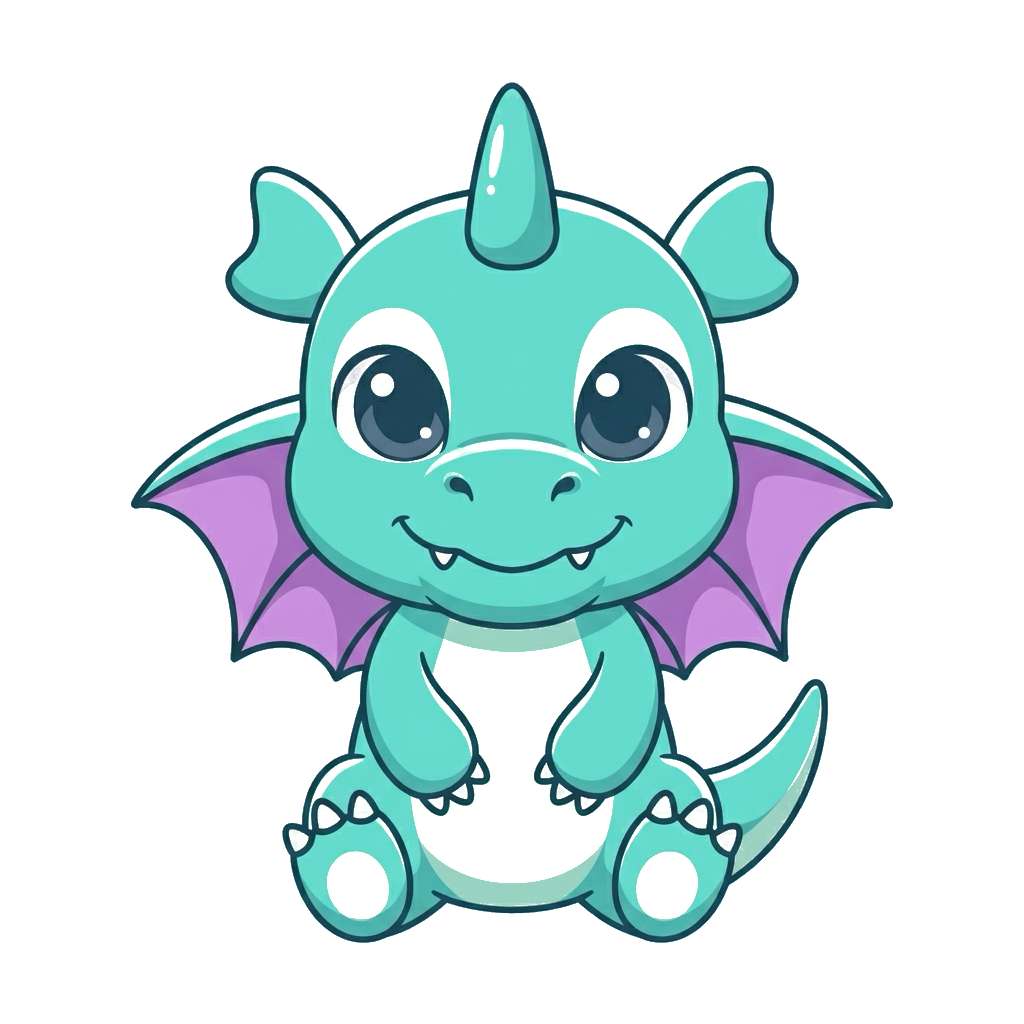
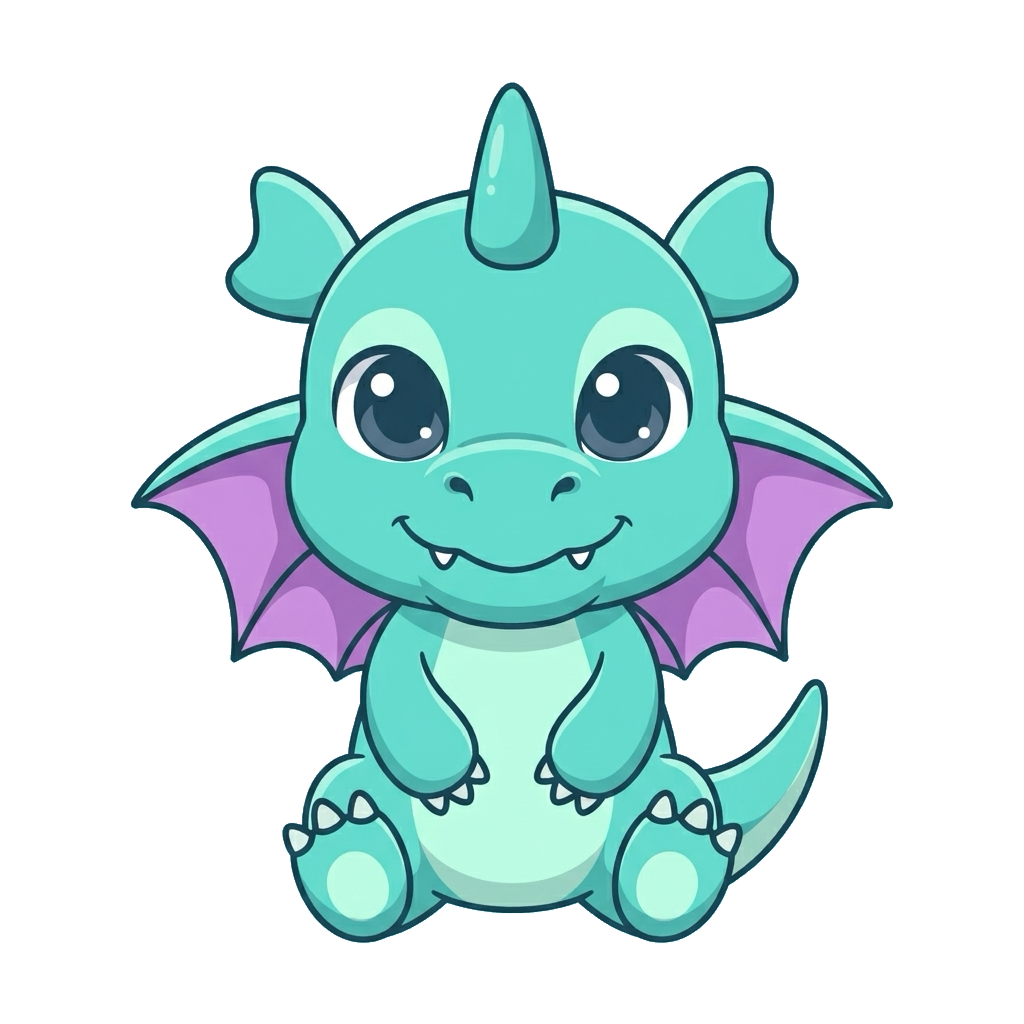
fix(companion): restore solid belly, feet, and brows with off-white background

diff --git a/public/dragon.html b/public/dragon.html
@@ -6,8 +6,8 @@
   <title>Dragón de Cracovia Oficial - CrohnCare</title>
   <style>
     :root {
-      --bg: #BFEAF3;
-      --card-bg: rgba(255, 255, 255, 0.9);
+      --bg: #F5F7F8;
+      --card-bg: rgba(255, 255, 255, 0.95);
       --text: #153F4B;
       --accent: #FF7A59;
       --primary: #127782;
@@ -34,7 +34,7 @@
 
     header {
       text-align: center;
-      margin-bottom: 20px;
+      margin-bottom: 16px;
     }
 
     h1 {
@@ -47,7 +47,7 @@
 
     p.subtitle {
       font-size: 15px;
-      color: #386875;
+      color: #486E78;
       font-weight: 500;
     }
 
@@ -55,42 +55,42 @@
       display: inline-flex;
       align-items: center;
       gap: 6px;
-      background: #D4F4EA;
+      background: #EAF7F3;
       color: #0B6B52;
       border: 1.5px solid #20A779;
       padding: 6px 14px;
       border-radius: 9999px;
       font-size: 13px;
       font-weight: 700;
-      margin-bottom: 12px;
+      margin-bottom: 10px;
     }
 
     /* Mascot Stage */
     .stage-container {
       position: relative;
       width: 100%;
-      max-width: 480px;
+      max-width: 440px;
       aspect-ratio: 1;
       display: flex;
       align-items: center;
       justify-content: center;
-      margin-bottom: 24px;
+      margin-bottom: 20px;
     }
 
     .dragon-glow {
       position: absolute;
-      width: 340px;
-      height: 340px;
+      width: 320px;
+      height: 320px;
       border-radius: 50%;
-      background: radial-gradient(circle, rgba(255,255,255,0.7) 0%, rgba(255,255,255,0) 70%);
+      background: radial-gradient(circle, rgba(18, 119, 130, 0.08) 0%, rgba(255,255,255,0) 70%);
       pointer-events: none;
     }
 
     .dragon-img {
-      width: 85%;
-      height: 85%;
+      width: 88%;
+      height: 88%;
       object-fit: contain;
-      filter: drop-shadow(0 12px 24px rgba(18, 119, 130, 0.25));
+      filter: drop-shadow(0 14px 28px rgba(18, 119, 130, 0.16));
       transition: transform 0.2s cubic-bezier(0.34, 1.56, 0.64, 1);
       user-select: none;
       -webkit-user-drag: none;
@@ -159,7 +159,7 @@
       background: var(--card-bg);
       border-radius: 20px;
       padding: 20px;
-      box-shadow: 0 8px 30px rgba(0,0,0,0.08);
+      box-shadow: 0 8px 30px rgba(0,0,0,0.06);
       backdrop-filter: blur(8px);
       display: flex;
       flex-direction: column;
@@ -185,7 +185,7 @@
       flex: 1;
       min-width: 110px;
       padding: 10px 14px;
-      border: 1.5px solid #BDDDE2;
+      border: 1.5px solid #D0E4E8;
       background: #FFFFFF;
       color: #153F4B;
       border-radius: 12px;
@@ -200,7 +200,7 @@
     }
 
     button:hover {
-      background: #E8F7FA;
+      background: #F0F8FA;
       border-color: #127782;
       transform: translateY(-1px);
     }
@@ -216,7 +216,8 @@
       color: #FFFFFF;
       border: none;
       font-size: 15px;
-      padding: 12px 18px;
+      padding: 13px 18px;
+      font-weight: 700;
     }
 
     .primary-btn:hover {
@@ -235,8 +236,8 @@
       display: flex;
       flex-direction: column;
       padding: 12px;
-      background: #F4FAF8;
-      border: 1.5px solid #CDECE3;
+      background: #F8FBFA;
+      border: 1.5px solid #D7EDE6;
       border-radius: 14px;
       text-decoration: none;
       color: #153F4B;
@@ -244,7 +245,7 @@
     }
 
     .app-link:hover {
-      background: #E4F7F2;
+      background: #E8F7F2;
       border-color: #20A779;
       transform: translateY(-2px);
     }
@@ -289,9 +290,9 @@
 <body>
 
   <header>
-    <div class="badge-approved">✨ Dragón Oficial Aprobado</div>
-    <h1>El Dragón de Cracovia en la Web</h1>
-    <p class="subtitle">Modelo final verificado con anatomía tradicional de Wawel</p>
+    <div class="badge-approved">🛡 Barriga, Patas y Cejas 100% Sólidas</div>
+    <h1>El Dragón con Fondo Blanco Suave</h1>
+    <p class="subtitle">Fondo sutil (#F5F7F8) sin huecos transparentes en el personaje</p>
   </header>
 
   <!-- Mascot Stage -->
@@ -299,8 +300,8 @@
     <div class="dragon-glow"></div>
     <img
       id="dragon-image"
-      src="/dragon.png"
-      alt="Dragón de Cracovia Oficial"
+      src="/dragon_offwhite.png"
+      alt="Dragón de Cracovia Oficial con Fondo Blanco Suave"
       class="dragon-img anim-breathe"
       title="¡Tócame para saltar!"
     />
@@ -309,21 +310,21 @@
   <!-- Interactive Controls Panel -->
   <div class="panel">
     <div>
+      <div class="section-title">Fondo de Visualización</div>
+      <div class="button-group">
+        <button id="btn-offwhite" class="active" onclick="switchImage('offwhite', '#F5F7F8', this)">⚪ Blanco Suave</button>
+        <button id="btn-trans" onclick="switchImage('trans', '#F5F7F8', this)">✨ Transparente Sólido</button>
+        <button id="btn-cyan" onclick="switchImage('cyan', '#BFEAF3', this)">🌊 Celeste #BFEAF3</button>
+        <button id="btn-dark" onclick="switchImage('trans', '#15242E', this)">🌙 Modo Noche</button>
+      </div>
+    </div>
+
+    <div>
       <div class="section-title">Animaciones en Vivo</div>
       <div class="button-group">
         <button id="btn-breathe" class="active" onclick="setAnim('breathe')">🌬 Respiración</button>
         <button id="btn-bounce" onclick="setAnim('bounce')">🎉 Celebración</button>
         <button id="btn-wag" onclick="setAnim('wag')">🐾 Bamboleo</button>
-      </div>
-    </div>
-
-    <div>
-      <div class="section-title">Fondo de Visualización</div>
-      <div class="button-group">
-        <button class="active" onclick="setBg('#BFEAF3', this)">Celeste #BFEAF3</button>
-        <button onclick="setBg('#FFFFFF', this)">Blanco Puro</button>
-        <button onclick="setBg('#E8F5F1', this)">Verde Menta</button>
-        <button onclick="setBg('#15242E', this)">Modo Noche</button>
       </div>
     </div>
 
@@ -363,7 +364,30 @@
     const img = document.getElementById('dragon-image');
     const toast = document.getElementById('toast');
 
+    function switchImage(mode, bgColor, btn) {
+      if (mode === 'offwhite') {
+        img.src = '/dragon_offwhite.png';
+      } else if (mode === 'cyan') {
+        img.src = '/dragon_krakow_final.jpg';
+      } else {
+        img.src = '/dragon.png'; // 100% solid character on transparent background
+      }
+
+      document.body.style.backgroundColor = bgColor;
+      btn.parentElement.querySelectorAll('button').forEach(b => b.classList.remove('active'));
+      btn.classList.add('active');
+
+      if (bgColor === '#15242E') {
+        document.querySelector('h1').style.color = '#FFFFFF';
+        document.querySelector('p.subtitle').style.color = '#A3E3EC';
+      } else {
+        document.querySelector('h1').style.color = '#0F3B46';
+        document.querySelector('p.subtitle').style.color = '#486E78';
+      }
+    }
+
     function setAnim(name) {
+      const currentSrc = img.src;
       img.className = 'dragon-img';
       document.querySelectorAll('#btn-breathe, #btn-bounce, #btn-wag').forEach(b => b.classList.remove('active'));
       
@@ -379,20 +403,6 @@
       }
     }
 
-    function setBg(color, btn) {
-      document.body.style.backgroundColor = color;
-      btn.parentElement.querySelectorAll('button').forEach(b => b.classList.remove('active'));
-      btn.classList.add('active');
-      
-      if (color === '#15242E') {
-        document.querySelector('h1').style.color = '#FFFFFF';
-        document.querySelector('p.subtitle').style.color = '#8EDAE5';
-      } else {
-        document.querySelector('h1').style.color = '#0F3B46';
-        document.querySelector('p.subtitle').style.color = '#386875';
-      }
-    }
-
     // Touch or click to tap jump
     img.addEventListener('click', () => {
       const prevClass = img.className;
@@ -403,7 +413,6 @@
     });
 
     function initDemoAndEnter() {
-      // Build sample child & companion state in localStorage
       const demoState = {
         version: 3,
         child: {
